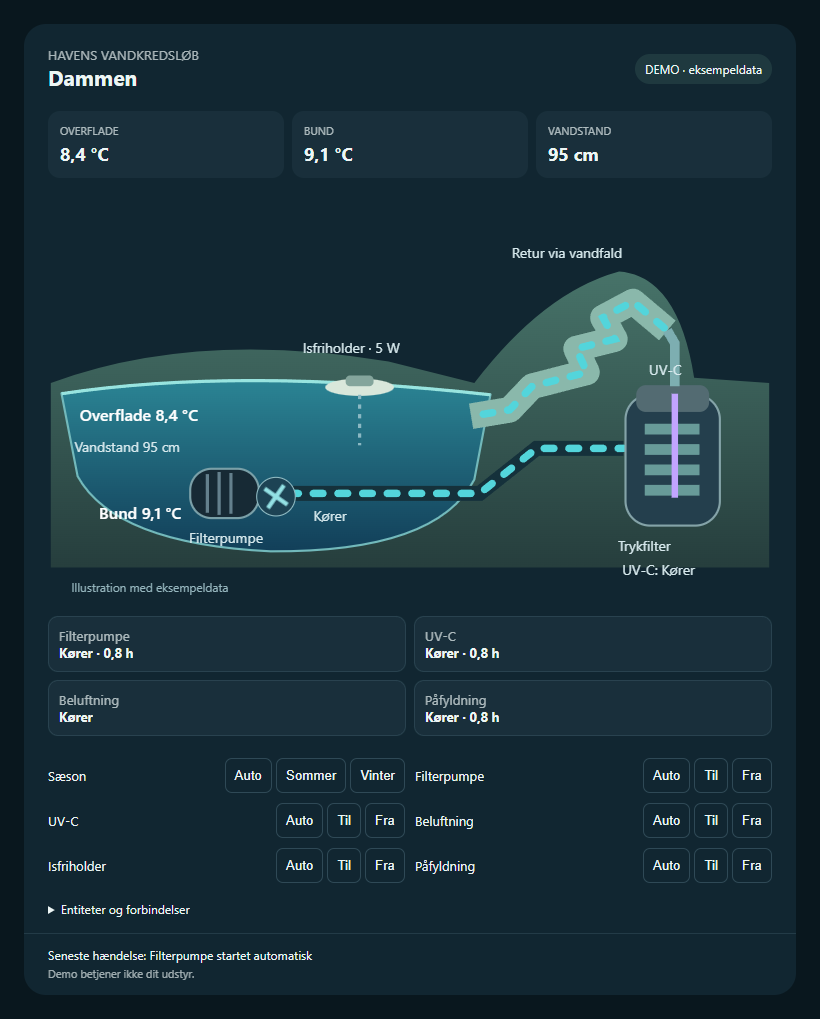
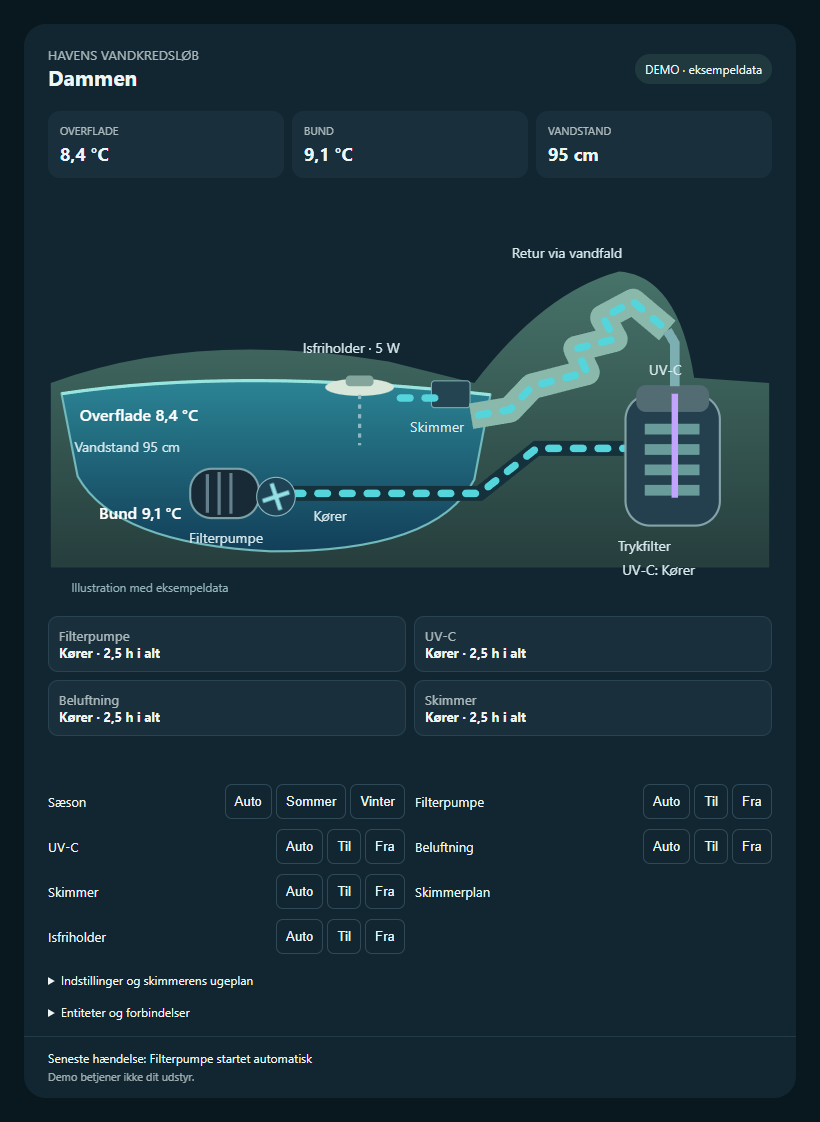
Match live pond entities and add skimmer controls

diff --git a/pond-flow-card.js b/pond-flow-card.js
@@ -1,5 +1,6 @@
 const esc = value => String(value ?? '').replace(/[&<>"']/g, c => ({'&':'&amp;','<':'&lt;','>':'&gt;','"':'&quot;',"'":'&#39;'}[c]));
-const labels = {temp_bottom:'Dam Temperatur Bund',temp_surface:'Dam Temperatur Overflade',water_level:'Vandstand',status:'Dam status',last_event:'Seneste hændelse',pump_running:'Filterpumpe kører',uv_running:'UV-C tændt',aerator_running:'Luftpumpe kører',fill_running:'Påfyldning åben',season:'Sæson',pump_mode:'Filterpumpe tilstand',uv_mode:'UV-C tilstand',aerator_mode:'Luftpumpe tilstand',fill_mode:'Påfyldning tilstand',pump_hours:'Filterpumpe drift i dag',uv_hours:'UV-C drift i dag',fill_minutes:'Påfyldningstid i dag'};
+const labels = {temp_bottom:'Dam Temperatur Bund',temp_surface:'Dam Temperatur Overflade',water_level:'Vandstand',status:'Dam status',last_event:'Seneste hændelse',pump_running:'Filterpumpe koerer',uv_running:'UV-C taendt',aerator_running:'Luftpumpe koerer',skimmer_running:'Skimmer koerer',skimmer_mode:'Skimmer tilstand',skimmer_plan:'Skimmer plan',season:'Sæson',pump_mode:'Filterpumpe tilstand',uv_mode:'UV-C tilstand',aerator_mode:'Luftpumpe tilstand',pump_hours:'Filterpumpe drift total',uv_hours:'UV-C drift total',aerator_hours:'Luftpumpe drift total',skimmer_hours:'Skimmer drift total',skimmer_locked:'Skimmer sikkerhedsspaerret',low_water:'Alarm lav vandstand',level_fault:'Fejl niveausensor',temp_fault:'Fejl temperatursensor',relay_fault:'Fejl relaemodul',settings_fault:'Fejl indstillinger',schedule_fault:'Fejl ugeplan ur',uv_service:'UV-C service paakraevet'};
+const binaryKeys = new Set(['skimmer_locked','low_water','level_fault','temp_fault','relay_fault','settings_fault','schedule_fault','uv_service']);
 const slug = value => value.toLowerCase().replaceAll('æ','ae').replaceAll('ø','o').replaceAll('å','a').normalize('NFD').replace(/[\u0300-\u036f]/g,'').replace(/[^a-z0-9]+/g,'_').replace(/^_|_$/g,'');
 class PondFlowCard extends HTMLElement {
   constructor() { super(); this.attachShadow({mode:'open'}); }
@@ -7,7 +8,8 @@ class PondFlowCard extends HTMLElement {
   set hass(hass) {
     this._hass = hass;
     if (!this.config) return;
-    const signature = JSON.stringify(Object.keys({...labels,...this.config.entities}).map(key => this.state(key)));
+    const prefix = this.config.entity_prefix || 'garden_pond_controller';
+    const signature = JSON.stringify([Object.keys({...labels,...this.config.entities}).map(key => this.state(key)),Object.entries(hass.states).filter(([id]) => id.startsWith(`number.${prefix}_`) || id.startsWith(`switch.${prefix}_`))]);
     if (signature !== this.signature) { this.signature = signature; this.render(); }
   }
   getCardSize() { return 7; }
@@ -16,7 +18,7 @@ class PondFlowCard extends HTMLElement {
     if (explicit && this._hass?.states[explicit]) return explicit;
     if (!labels[key]) return explicit;
     const prefix = this.config.entity_prefix || 'garden_pond_controller';
-    const domain = key.endsWith('_mode') || key === 'season' ? 'select' : key.endsWith('_running') ? 'binary_sensor' : 'sensor';
+    const domain = key.endsWith('_mode') || key === 'season' || key === 'skimmer_plan' ? 'select' : key.endsWith('_running') || binaryKeys.has(key) ? 'binary_sensor' : 'sensor';
     const expected = `${domain}.${prefix}_${slug(labels[key])}`;
     if (this._hass?.states[expected]) return expected;
     const matches = Object.entries(this._hass?.states || {}).filter(([id,s]) => id.startsWith(`${domain}.${prefix}_`) && (slug(s.attributes?.friendly_name || '') === slug(labels[key]) || slug(s.attributes?.friendly_name || '').endsWith('_'+slug(labels[key]))));
@@ -43,7 +45,7 @@ class PondFlowCard extends HTMLElement {
     const demo = this.config.demo === true;
     const active = demo || this.running('pump_running');
     const val = (key, sample) => esc(demo ? sample : this.value(key));
-    const controls = [['season','Sæson'],['pump_mode','Filterpumpe'],['uv_mode','UV-C'],['aerator_mode','Beluftning'],['icefree_mode','Isfriholder'],['fill_mode','Påfyldning']];
+    const controls = [['season','Sæson'],['pump_mode','Filterpumpe'],['uv_mode','UV-C'],['aerator_mode','Beluftning'],['skimmer_mode','Skimmer'],['skimmer_plan','Skimmerplan'],['icefree_mode','Isfriholder']].filter(([key]) => demo || this.state(key));
     const operating = key => demo ? 'Kører' : !this.state(key) || ['unknown','unavailable'].includes(this.state(key).state) ? 'Ukendt' : this.running(key) ? 'Kører' : 'Stoppet';
     this.shadowRoot.innerHTML = `
     <style>
@@ -62,6 +64,7 @@ class PondFlowCard extends HTMLElement {
         <path d="M25 180 Q160 130 340 160 L420 180 Q485 95 555 76 Q610 80 625 175 L695 180 L695 352 L25 352Z" fill="url(#land)"/>
         <path d="M35 190 Q200 165 435 191 L420 270 Q385 338 230 337 Q85 330 50 267Z" fill="url(#water)" stroke="#72b9bb" stroke-width="2"/>
         <path d="M35 190 Q200 165 435 191" stroke="#98e4df" fill="none" stroke-width="3"/>
+        <g data-info="skimmer_running" aria-label="Skimmerstatus"><rect x="380" y="178" width="36" height="25" rx="3" fill="#254451" stroke="#7daeb1"/><path class="flow ${demo || this.running('skimmer_running') ? 'active' : ''}" d="M343 194H393"/><text x="360" y="226">Skimmer</text></g>
         <path d="M600 131 L568 104 L540 119 L551 139 L515 148 L525 170 L474 183 L453 205 L417 211" fill="none" stroke="#8ab8ab" stroke-width="24" stroke-linejoin="round"/>
         <path class="flow ${active ? 'active' : ''}" d="M600 131 L568 104 L540 119 L551 139 L515 148 L525 170 L474 183 L453 205 L417 211"/>
         <path d="M197 283 L425 283 L478 241 L559 241" fill="none" stroke="#15313b" stroke-width="14"/>
@@ -85,17 +88,20 @@ class PondFlowCard extends HTMLElement {
         <text data-info="uv_running" x="558" y="359">UV-C: ${esc(operating('uv_running'))}</text>
         <text x="44" y="375" style="font-size:11px;fill:#95b5bd">${demo ? 'Illustration med eksempeldata' : 'Animation følger pumpens statusentitet · gennemstrømning er ikke målt'}</text>
       </svg>
-      <div class="equipment">${[['pump_running','Filterpumpe','pump_hours'],['uv_running','UV-C','uv_hours'],['aerator_running','Beluftning',null],['fill_running','Påfyldning','fill_minutes']].map(([key,label,hours]) => `<button data-info="${key}"><small>${label}</small><strong>${esc(operating(key))}${hours ? ' · '+val(hours,'0,8 h') : ''}</strong></button>`).join('')}</div>
+      <div class="equipment">${[['pump_running','Filterpumpe','pump_hours'],['uv_running','UV-C','uv_hours'],['aerator_running','Beluftning','aerator_hours'],['skimmer_running','Skimmer','skimmer_hours']].map(([key,label,hours]) => `<button data-info="${key}"><small>${label}</small><strong>${esc(operating(key))} · ${val(hours,'2,5 h')} i alt</strong></button>`).join('')}</div>
+      <div class="equipment">${[...binaryKeys].filter(key => this.state(key)).map(key => `<button data-info="${key}" ${this.running(key) ? 'class="error"' : ''}><small>${esc(labels[key])}</small><strong>${['unknown','unavailable'].includes(this.state(key).state) ? 'Ukendt' : this.running(key) ? 'Aktiv' : 'OK'}</strong></button>`).join('')}</div>
       <div class="controls">${controls.map(([key,label]) => {
         const state = this.state(key);
-        const options = state?.attributes.options || (key === 'season' ? ['Auto','Sommer','Vinter'] : ['Auto','Til','Fra']);
+        const options = state?.attributes.options || (key === 'season' ? ['Auto','Sommer','Vinter'] : key === 'skimmer_plan' ? [] : ['Auto','Til','Fra']);
         const disabled = demo || !state || ['unavailable','unknown'].includes(state.state);
         return `<div class="control"><span>${label}</span><div class="options">${!state && !demo ? '<small>Ikke tilkoblet</small>' : options.map(option => `<button data-key="${key}" data-option="${esc(option)}" aria-label="${label}: ${esc(option)}" aria-pressed="${option === state?.state}" ${disabled ? 'disabled' : ''}>${esc(option)}</button>`).join('')}</div></div>`;
       }).join('')}</div>
+      <details><summary>Indstillinger og skimmerens ugeplan</summary><div class="equipment">${Object.entries(this._hass?.states || {}).filter(([id]) => ['number','switch'].some(domain => id.startsWith(`${domain}.${this.config.entity_prefix || 'garden_pond_controller'}_`))).map(([id,s]) => `<button data-entity="${esc(id)}"><small>${esc(s.attributes.friendly_name || id)}</small><strong>${esc(s.state)} ${esc(s.attributes.unit_of_measurement || '')}</strong></button>`).join('')}</div><span class="note">Tryk for at åbne og ændre indstillingen i Home Assistant.</span></details>
       <details><summary>Entiteter og forbindelser</summary>${Object.keys(labels).map(key => `<div>${esc(labels[key])}: ${this.state(key) ? '✓' : 'Mangler'} <code>${esc(this.entity(key))}</code></div>`).join('')}</details>
       <div class="status">Seneste hændelse: ${val('last_event','Filterpumpe startet automatisk')}<br><span class="note">${demo ? 'Demo betjener ikke dit udstyr.' : 'Tryk på en måling eller udstyrsstatus for detaljer. Relæstatus bekræfter ikke fysisk drift.'}</span>${this.error ? `<div class="error" role="alert">${esc(this.error)}</div>` : ''}</div>
     </ha-card>`;
     this.shadowRoot.querySelectorAll('[data-key]').forEach(el => el.addEventListener('click', () => this.change(el.dataset.key,el.dataset.option)));
+    this.shadowRoot.querySelectorAll('[data-entity]').forEach(el => el.addEventListener('click', () => { if (!demo) this.dispatchEvent(new CustomEvent('hass-more-info',{detail:{entityId:el.dataset.entity},bubbles:true,composed:true})); }));
     this.shadowRoot.querySelectorAll('[data-info]').forEach(el => {
       const open = () => { const id = this.entity(el.dataset.info); if (!demo && this.state(el.dataset.info)) this.dispatchEvent(new CustomEvent('hass-more-info',{detail:{entityId:id},bubbles:true,composed:true})); };
       el.addEventListener('click',open);

diff --git a/README.md b/README.md
@@ -1,5 +1,15 @@
 # Pond Flow Card
 
+Version 0.2.1 matcher controllerens faktiske `koerer`-entiteter, viser samlede driftstimer og tilføjer skimmerstatus, skimmertilstand, skimmerplan og alarmer. Sæsonvalg, påfyldning og isfriholderens betjening skjules, når controlleren ikke har disse funktioner. Indstillinger og ugeplan kan åbnes i HA via kortets foldbare indstillingsfelt.
+
+Med den aktuelle controller er denne minimumskonfiguration nok (fjern gamle manuelle entity-id'er for at bruge automatisk registrering):
+
+```yaml
+type: custom:pond-flow-card
+title: Dammen
+entity_prefix: garden_pond_controller
+```
+
 Version 0.2.0 afrunder målinger til én decimal, viser værdier ved udstyret, giver direkte Auto/Til/Fra-knapper og åbner HA-detaljer ved tryk på målinger og status. Vandflow og pumpens rotor animeres ved aktiv pumpestatus. Uændrede HA-opdateringer genstarter ikke animationen.
 
 Entiteter findes automatisk under `garden_pond_controller` ud fra ESPHome-navnene. Brug `entity_prefix` for et andet præfiks og `entities` til manuelle id'er. Under **Entiteter og forbindelser** vises de id'er, kortet bruger, samt manglende entiteter. En eksplicit entitet, der findes, har altid forrang. Manglende id'er kan erstattes af et entydigt match på samme enheds præfiks og friendly name.

diff --git a/Projekt.md b/Projekt.md
@@ -26,6 +26,10 @@ Første kortversion er implementeret som `pond-flow-card.js` med SVG-diagram og 
 
 ## Eksisterende udstyr
 
+### Aktuel controller i HA – bekræftet 27. oktober 2026
+
+Brugerens entity-liste viser filterpumpe, luftpumpe, UV-C og skimmer med ugeplan/interval. Driftstimer findes som samlede tællere. Der er ingen entiteter til sæsonvalg, automatisk påfyldning eller isfriholder i denne liste. Den lokale `pond-controller (3).yaml` afspejler derfor ikke den aktuelle firmware fuldt ud og må ikke bruges som eneste grundlag for kortets funktioner eller relætildeling. Det aktuelle kort understøtter de bekræftede entiteter; øvrige hardwareforhold er fortsat uafklarede.
+
 ### Filterpumpe og trykfilter med UV-C
 
 Brugeren har bekræftet, at opstillingen svarer til denne principtegning:
